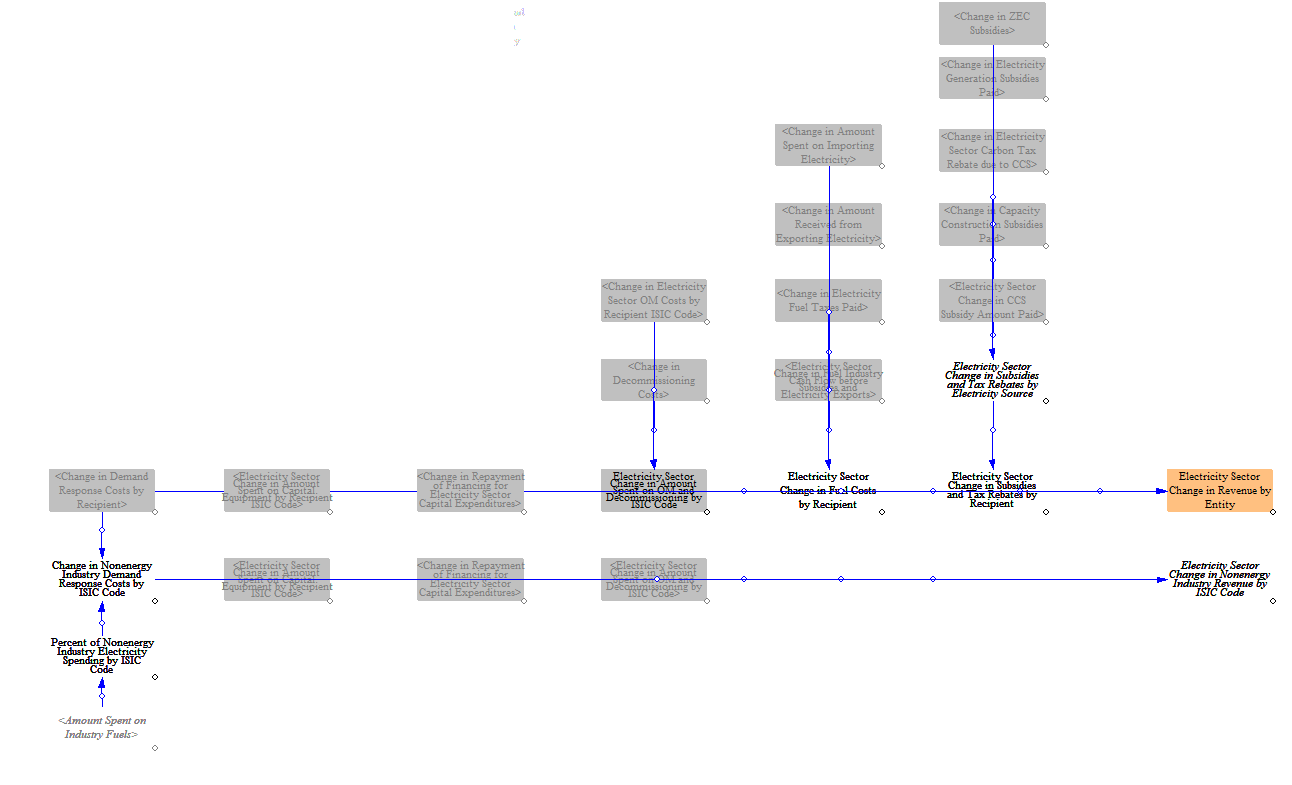
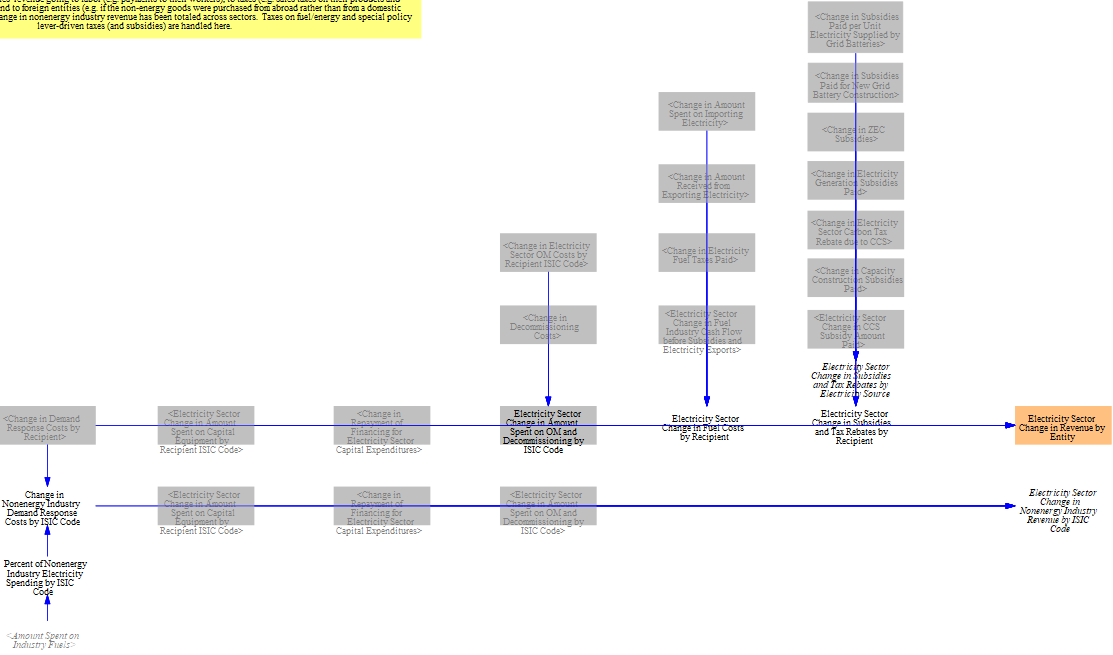
Documentation updates for 4.0.4 release (elec-cash)

diff --git a/docs/electricity-sector-cash.md b/docs/electricity-sector-cash.md
@@ -47,11 +47,15 @@ Some regions, for example some US states, have additional subsidies for specific
 
 ![change in ZEC subsidies](/img/electricity-sector-cash-ZECs.png)
 
-### Generation Subsidies
+### Generation and Grid Battery Electricity Supply Subsidies
 
-Qualifying power plants may also receive a subsidy per unit of electricity generation. We track changes in subsidy payments to qualifying generators by summing generation and multiplying subsidies by the generation amount. Subsidies are calculated separately in the electricity sector as discussed on the [Electricity Sector](electricity-sector-main) page and handle nuances like varying duration periods for the subsidies.
+Qualifying power plants may also receive a subsidy per unit of electricity generation. We use Vensim's stock and flow structure to track the eligibility of new and retrofit capacity for generation subsidies over time. In the BAU, we assume subsidies are paid for ten years after the construction of each power plant. We then take the difference between the policy and BAU generation subsidies paid to feed into expenditure and revenue tracking.
 
 ![change in generation subsidies](/img/electricity-sector-cash-generationsubsidies.png)
+
+A similar structure is used to track subsidy payments for electricity supplied to the grid by batteries. 
+
+![change in generation subsidies](/img/electricity-sector-cash-batterygenerationsubsidies.png)
 
 ### Rebate for Sequestered CO<sub>2</sub>
 
@@ -233,11 +237,11 @@ Finally, we add in the ongoing transmission capital and distribution capital cos
 
 Summing all of the above gives us the total annual costs that need to be recovered through rates.
 
-We then divide this total by the sum of total electricity demand to estimate a cost per unit electricity delivered and compare against the BAU equivalent.
+We then divide this total by the sum of total electricity demand plus exports to estimate a cost per unit electricity delivered and compare against the BAU equivalent.
 
 ![repayment for other electricity sector costs](/img/electricity-sector-cash-ratesother.png)
 
 On the fuels page, we calculate the difference between this value and cost of delivered electricity from input data, the difference of which we assume are other components of rates not captured in the model. We then calculate rates by holding this difference constant and adding it to the calculated rates using the structure above. This calculation flow is detailed on the [Fuels](fuels) page.
 
 ---
-*This page was last updated in version 4.0.3.*
+*This page was last updated in version 4.0.4.*
